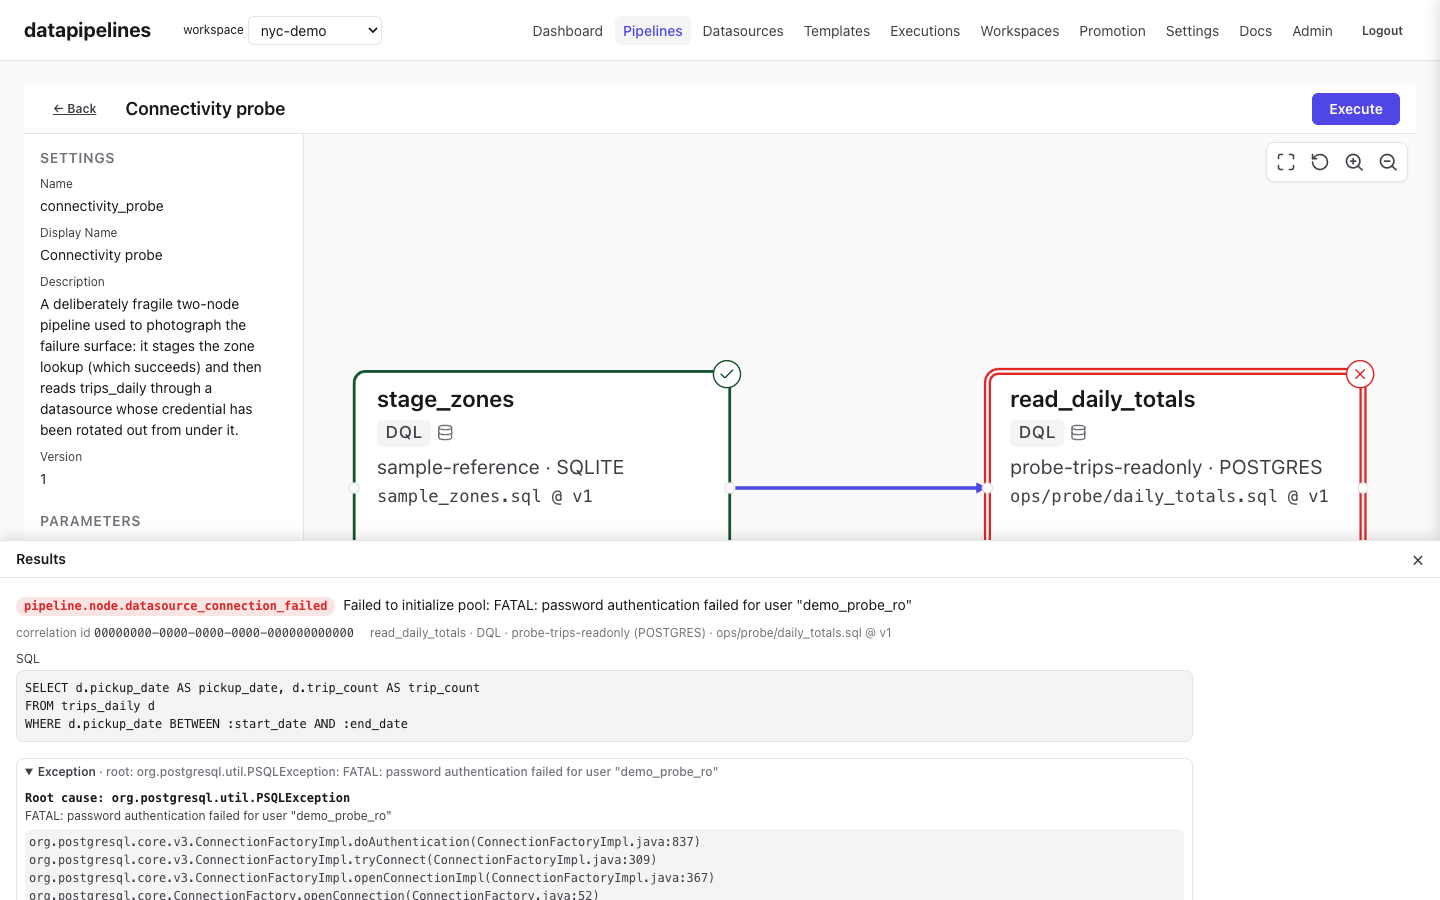
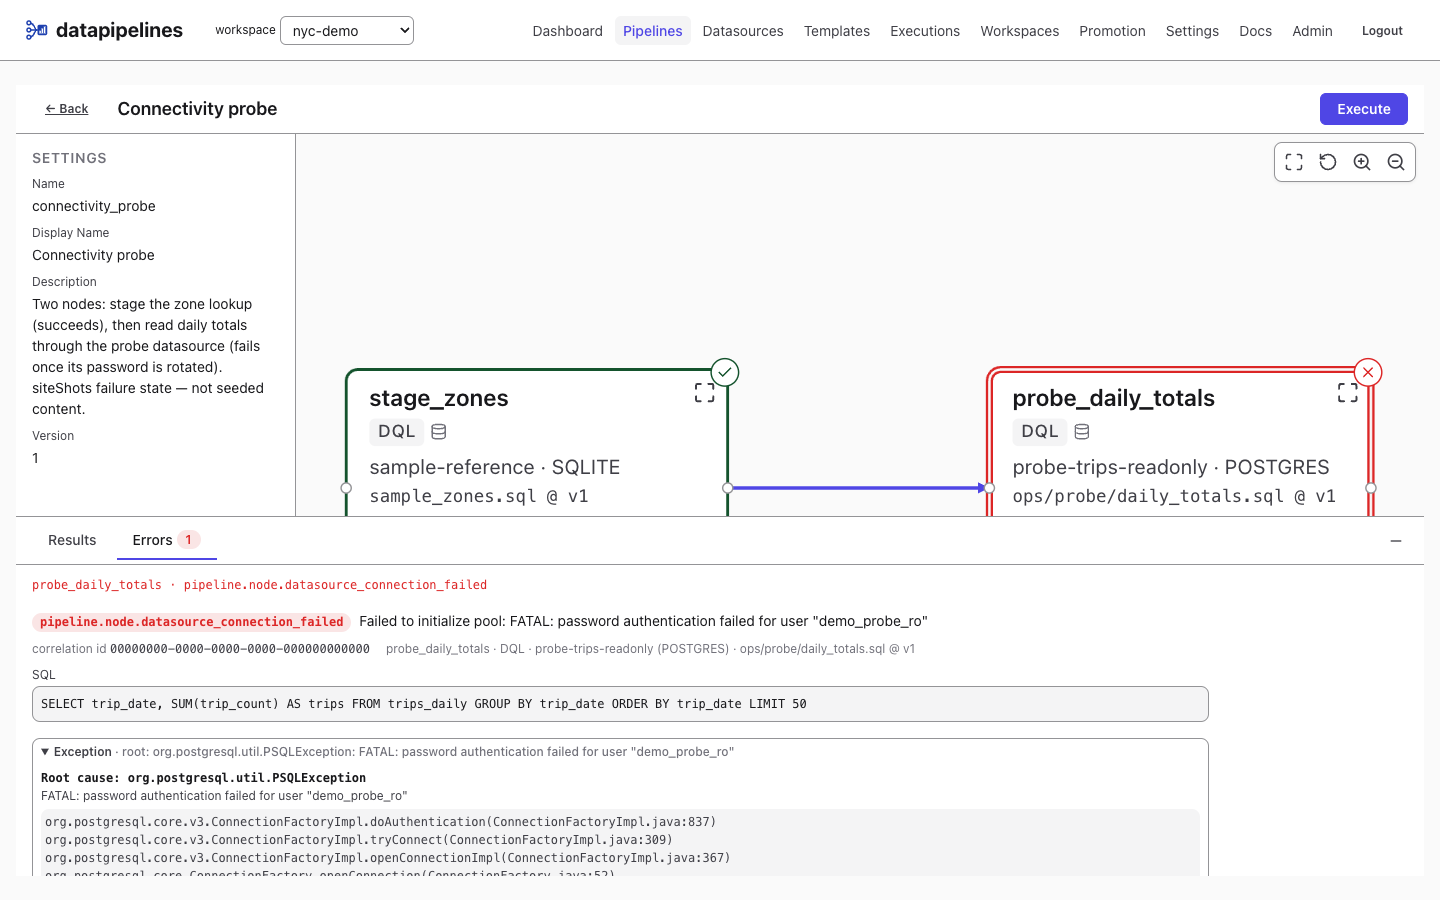
site: recapture nine screenshots on the merged build (065 dock + inspector, brand mark, v3 showcase content, nyc-demo workspace) via siteShots; driver follows 065's DOM (dock, Errors tab, card open button); promotion.png kept from 070 (needs a receiver stack)

diff --git a/tests/browser-tests/src/test/kotlin/co/datapipelines/browser/SiteShotsMain.kt b/tests/browser-tests/src/test/kotlin/co/datapipelines/browser/SiteShotsMain.kt
@@ -270,7 +270,9 @@ object SiteShotsMain {
         private fun editorRunAndGraph() {
             openEditor(SHOWCASE)
             execute()
-            waitFor(".pe-result-panel")
+            // 065: the results live in the bottom dock (Results | Errors), never a closable panel.
+            waitFor(".pe-dock")
+            waitFor(".pe-dock .ds-table")
             // The results dock takes the lower half; without a fit only the first cards are in
             // frame, and the shot is supposed to show the run state of EVERY node.
             fitGraph()
@@ -304,18 +306,22 @@ object SiteShotsMain {
             }
             openEditor(pipeline)
             execute()
-            waitFor(".pe-node-failure, .pe-error-exception")
-            // §9.1's modal restates the user-facing message over the graph. The shot is about
-            // the CARD and the detail beneath it, so dismiss the modal — it is a real element
-            // of the flow, not of this state.
-            page.locator("button:has-text('Dismiss')").first().click()
-            page.locator("button:has-text('Dismiss')").first().waitFor(
-                com.microsoft.playwright.Locator
-                    .WaitForOptions()
-                    .setState(WaitForSelectorState.HIDDEN),
-            )
-            // The chain is the point of the shot (dag-executor §8.4) — open every collapsed level.
-            page.locator(".pe-error-exception details").all().forEach { it.evaluate("e => e.open = true") }
+            // 065: the first node failure opens the dock on the Errors tab (pipeline-editor §9).
+            // §9.1's modal still restates the user-facing message over the graph; the shot is
+            // about the CARD and the Errors tab beneath it, so dismiss it — it is a real element
+            // of the flow, not of this state. The chain is the point of the shot (dag-executor
+            // §8.4) — open every collapsed level.
+            waitFor(".pe-dock-error")
+            val dismiss = page.locator("button:has-text('Dismiss')").first()
+            if (dismiss.isVisible) {
+                dismiss.click()
+                dismiss.waitFor(
+                    com.microsoft.playwright.Locator
+                        .WaitForOptions()
+                        .setState(WaitForSelectorState.HIDDEN),
+                )
+            }
+            page.locator(".pe-dock-error details").all().forEach { it.evaluate("e => e.open = true") }
             settle()
             shoot("failure-detail.png")
         }
@@ -450,11 +456,11 @@ object SiteShotsMain {
             val card = page.locator(".pe-card").nth(index)
             card.waitFor()
             val box = laidOutBox(card, index)
+            // 065: a click on the card only SELECTS it; the inspector opens from the card's own
+            // button (or Enter). The button sits in the card's top-right corner.
             page.mouse().click(box.x + box.width / 2, box.y + box.height / 2)
-            page.locator(".pe-details-panel.pe-details-visible").waitFor()
-            // `.pe-node-list` is clipped for sighted users but un-clips on :focus-within (031),
-            // and the canvas click leaves focus inside it — so the screen-reader affordance
-            // would appear in the frame. Drop focus to the body and it re-clips.
+            card.locator(".pe-card-open").first().click()
+            page.locator(".pe-details-panel").waitFor()
             page.evaluate("() => document.activeElement && document.activeElement.blur()")
         }
 
